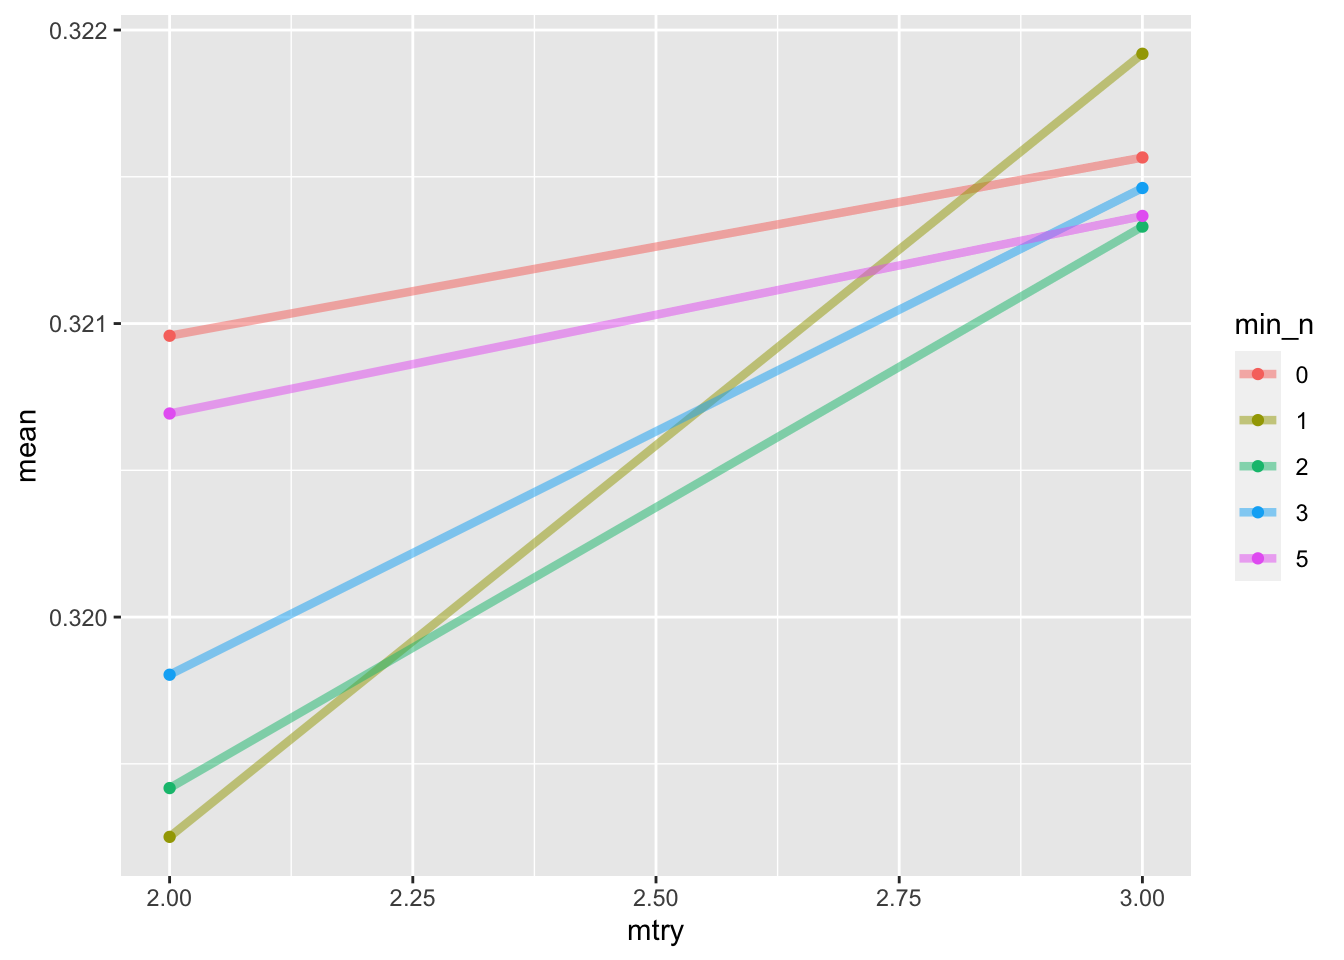
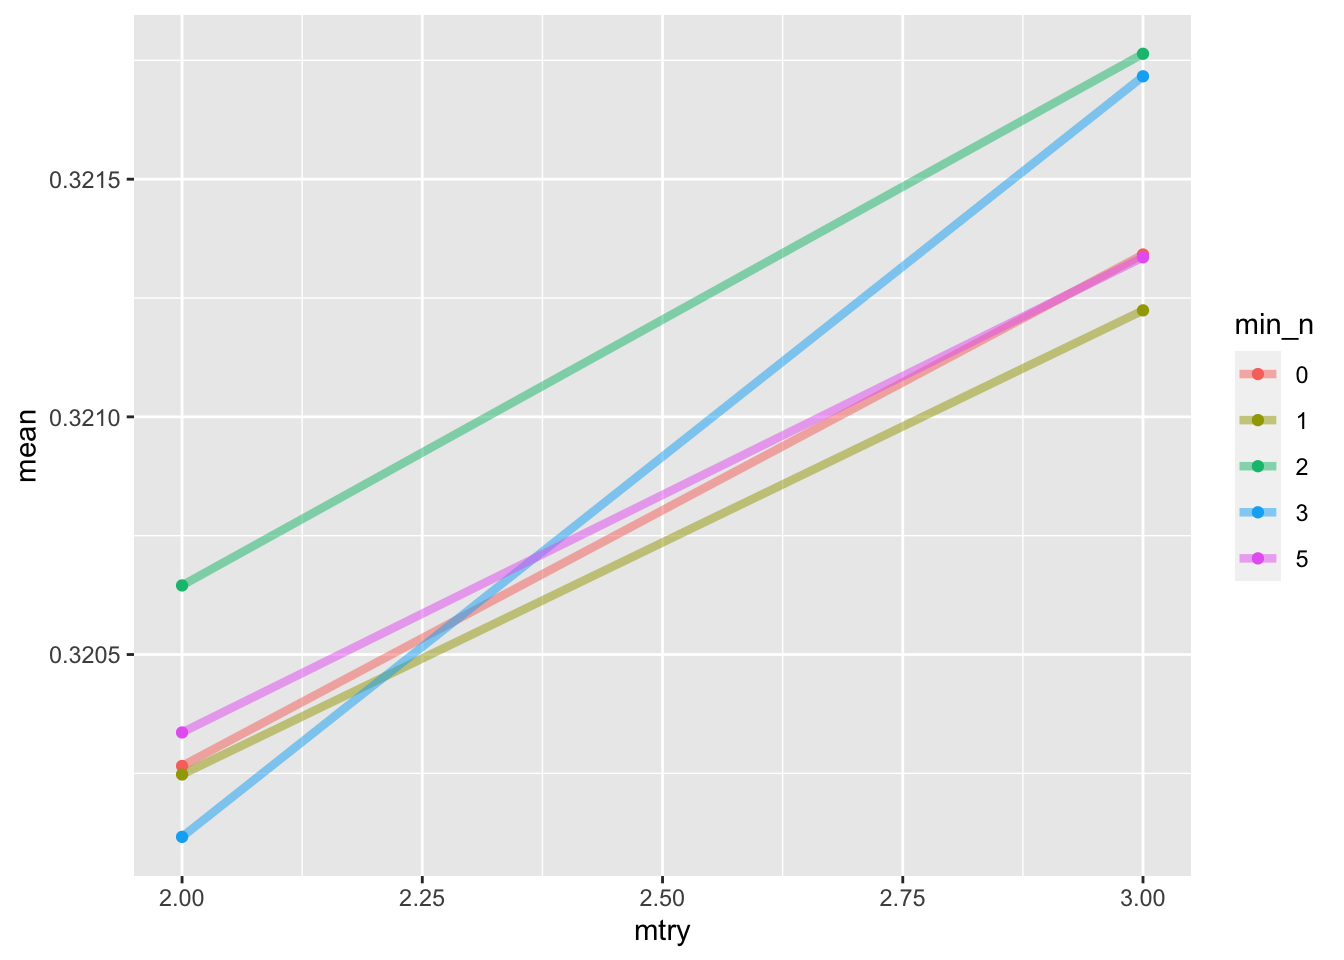
Add files via upload

diff --git a/public/post/2020/08/06/random-forest-a-machine-learning-algorithm-for-weed-research/index.html b/public/post/2020/08/06/random-forest-a-machine-learning-algorithm-for-weed-research/index.html
@@ -71,7 +71,7 @@
 
 <div id="background" class="section level2">
 <h2>Background</h2>
-<p>Random Forest is a machine learning algorithm that generates multiple decision trees using a subsample of bootstrapped observations from randomly selected explanatory variables. Random Forest is a useful tool for variable selection in large and complex datasets for quantitative, discrete, and qualitative variables and has been utilized for response variables such as <em>Amaranthus</em> spp. resistance (<a href="https://doi.org/10.1002/ps.4781">Vieira et al. 2018</a> and <a href="https://doi.org/10.1017/wet.2020.74">Oliveira et al. 2020</a>), weed biomass in cover crops (<a href="https://link.springer.com/article/10.1007/s13593-018-0543-1">Baraibar et al. 2018</a>), soybean yield (Smidt et al. 2016), soybean injury from dicamba (<a href="https://doi.org/10.1002/ps.5448">Zhang et al. 2019</a>), and Goss’s bacterial wilt and leaf blight development (<a href="https://doi.org/10.1094/PDIS-01-15-0038-RE">Langemeier et al. 2017</a>).</p>
+<p>Random Forest is a machine learning algorithm that generates multiple decision trees using a subsample of bootstrapped observations from randomly selected explanatory variables. Random Forest is a useful tool for variable selection in large and complex datasets for quantitative, discrete, and qualitative variables and has been utilized for response variables such as <em>Amaranthus</em> spp. resistance (<a href="https://doi.org/10.1002/ps.4781">Vieira et al. 2018</a> and <a href="https://doi.org/10.1017/wet.2020.74">Oliveira et al. 2020</a>), weed biomass in cover crops (<a href="https://link.springer.com/article/10.1007/s13593-018-0543-1">Baraibar et al. 2018</a>), soybean yield (<a href="https://doi.org/10.2134/agronj2015.0222">Smidt et al. 2016</a>), soybean injury from dicamba (<a href="https://doi.org/10.1002/ps.5448">Zhang et al. 2019</a>), and Goss’s bacterial wilt and leaf blight development (<a href="https://doi.org/10.1094/PDIS-01-15-0038-RE">Langemeier et al. 2017</a>).</p>
 </div>
 <div id="getting-started" class="section level2">
 <h2>Getting started</h2>
@@ -148,7 +148,7 @@ s1_test &lt;- testing(s1_split)</code></pre>
 <div id="building-our-model-and-tuning-hyperparameters" class="section level2">
 <h2>Building our Model and Tuning Hyperparameters</h2>
 <p>In order to build our Random Forest, we will first build a recipe, then our model, and finally a workflow using both of these.</p>
-<p>In the recipe below, we are specifying that “ph” is our response variable, and we are including all other columns in the dataset as explanatory variables. In random forest you can also manipulate your dataset by making [dummy variables](<a href="https://en.wikipedia.org/wiki/Dummy_variable_(statistics)" class="uri">https://en.wikipedia.org/wiki/Dummy_variable_(statistics)</a>.</p>
+<p>In the recipe below, we are specifying that “ph” is our response variable, and we are including all other columns in the dataset as explanatory variables. In random forest you can also manipulate your dataset by making <a href="https://en.wikipedia.org/wiki/Dummy_variable_(statistics)">dummy variables</a>.</p>
 <p>In tidymodels, there are three hyperparameters for Random Forests: mtry, the number of different predictors sampled at each split; trees, the number of decision trees; and min_n, the minimum number of data points in a node required for further splits. If you are not familiar with these, look at rand_forest in Help tab for clarification on what the parameters represent. Often these parameters are arbitrarily assigned. For example, we are going to set the number of trees to 1000 (trees=1000), because for our purposes it is only important to have “enough.” In the example below, we are specifying that we would like to tune our model for the optimal values of mtry and min_n. </p>
 <p>When building your model, there are several options to list for set_mode, depending on your data’s response variable. For this example, our response variable specified is quantitative; thus, we specified the mode as “regression.” “Classification” is a frequently used alternative for qualitative response variables. You can also change the engine specified (in this example we used “ranger”).</p>
 <pre class="r"><code>#Build recipe
@@ -179,7 +179,7 @@ tune_res &lt;- tune_grid(tune_wf, resamples=s1_folds, grid=20) </code></pre>
 <pre><code>## # A tibble: 1 x 3
 ##    mtry min_n .config
 ##   &lt;int&gt; &lt;int&gt; &lt;chr&gt;  
-## 1     3    12 Model20</code></pre>
+## 1     3    24 Model15</code></pre>
 <pre class="r"><code>tune_res %&gt;%
   collect_metrics() %&gt;% 
   filter(.metric ==&quot;rmse&quot;) %&gt;% 
@@ -199,7 +199,7 @@ regular_res %&gt;%
 <pre><code>## # A tibble: 1 x 3
 ##    mtry min_n .config
 ##   &lt;int&gt; &lt;int&gt; &lt;chr&gt;  
-## 1     2     1 Model05</code></pre>
+## 1     2     3 Model13</code></pre>
 <pre class="r"><code>regular_res %&gt;%
   collect_metrics() %&gt;%
   filter(.metric ==&quot;rmse&quot;) %&gt;% 
